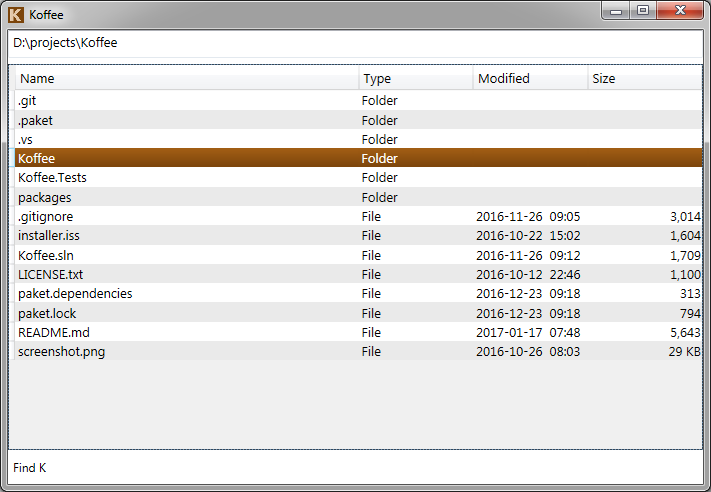
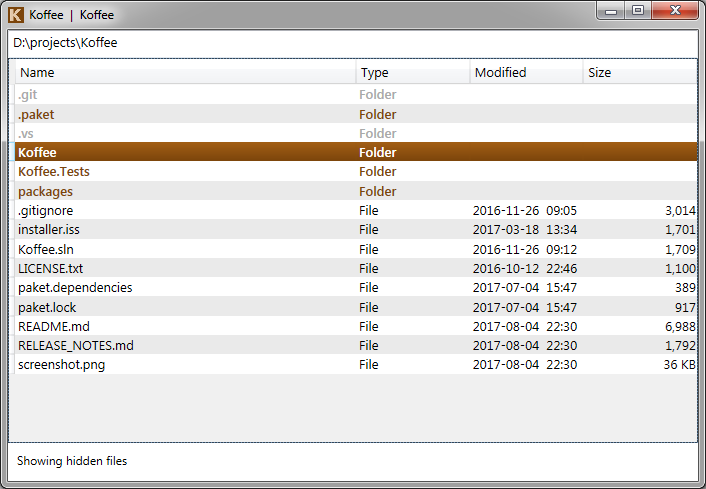
Updates readme, release notes, and screenshot.

diff --git a/README.md b/README.md
@@ -19,31 +19,40 @@ _Capitalized letters indicate that the key is combined with Shift._
 - `j` to move the cursor down
 - `k` to move the cursor up
 - `h` to go up to the parent folder
-- `l` or `enter` to open the selected folder or file
+- `l` or `Enter` to open the selected folder or file
 - `H` to go back in navigation history
 - `L` to go forward in navigation history
 - `tab` switches between the main view and the path box
-- `?` opens the settings window, which displays the hotkeys for all commands. _(This window will allow you to edit the hotkeys and other settings in the future.)_
+- `?` opens the Settings window, which displays the hotkeys for all commands.
 - `Ctrl + w` to exit
 
-#### Jumping to Items in the Current Folder
-- `Ctrl + j` and `Ctrl + k` move the cursor by half-pages at a time.
-- `gg` (press `g` twice) jumps to the first item, and `G` jumps to the last item.
-- Press `f` then any character to jump to the next item beginning with that character. _(Note that this is case sensitive, so `a` is not the same as `A`.)_ For example, pressing `fa` will jump to the first file or folder starting with "a". Then press `;` to continue jumping to more items starting with that same character.
-- Press `/` to start a search. This will move your cursor to a search box at the bottom of the window. Enter any part of a file or folder name and press `enter` to jump to the next item containing the search term in its name. Then press `n` to go to the next match, or `N` to go to the previous match. The search box accepts regular expressions for powerful searching. _(Don't know what regular expression are? That's OK, just know that some characters like `.`, `*`, `+`, `^`, `$`, `(`, `)`, `[`, `]` have special meaning. Put a `\` in front of these characters to search for them literally.)_
+#### Advanced Navigation
+- **Scroll quickly**
+    - `Ctrl + j` and `Ctrl + k` move the cursor by half-pages at a time.
+    - `gg` (press `g` twice) jumps to the first item, and `G` jumps to the last item.
+- **Jump to item**: Press `f` then any character to jump to the next item beginning with that character. _(Note that this is case sensitive, so `a` is not the same as `A`.)_ For example, pressing `fa` will jump to the first file or folder starting with "a". Then press `;` to continue jumping to more items starting with that same character.
+- **Search**: Press `/` to start a search. This will move your cursor to a search box at the bottom of the window. Enter any part of a file or folder name and press `Enter` to jump to the next item containing the search term in its name. Then press `n` to go to the next match, or `N` to go to the previous match. The search box accepts regular expressions for powerful searching. _(Don't know what regular expression are? That's OK, just know that some characters like `.`, `*`, `+`, `^`, `$`, `(`, `)`, `[`, `]` have special meaning. Put a `\` in front of these characters to search for them literally.)_
+- **Bookmarks**
+    - Set a bookmark by pressing `m`. The list of bookmarks already set are shown. Enter any character to set a bookmark to that character. Upper-case letters are distinct from lower-case letters.
+    - Go to a bookmark by pressing `'`. The list of bookmarks are shown. Enter one of the bookmark characters to go to that bookmark.
+    - When viewing bookmarks, press `Delete` then a bookmark character to delete that bookmark.
+- **Sorting**
+    - Press `sn` to sort by name, ascending then descending.
+    - Press `sm` to sort by modified date, descending then ascending.
+    - Press `ss` to sort by size, ascending then descending.
 
 #### File & Folder Manipulation
-- **Create File or Folder**: Press `o` to create a file or `O` to create a folder. Type in the name of the new item and press `enter`.
+- **Create File or Folder**: Press `o` to create a file or `O` to create a folder. Type in the name of the new item and press `Enter`.
 - **Rename**: There are several ways to start renaming the currently selected file or folder.
     - Press `i` to start with the cursor at the beginning of the name
     - Press `a` to start with the cursor at the end of the name, before the extension
     - Press `A` to start with the cursor at the end of the extension
     - Press `c` to start with the name (without extension) selected so that typing will replace the name
     - Press `C` to start with the extension selected so that typing will replace the extension
-    - When you are done editing the name, press `enter`
+    - When you are done editing the name, press `Enter`
 - **Move / Copy**
     1. Press `d` to start a move or `y` to start a copy of the selected file or folder. The item and operation will be displayed at the lower-right corner of the window.
-    2. Navigate to the destination folder and press `p` to move or copy the item there. A copy to the same folder will append "(copy)" to the name. If an item with the same name already exists, you will be prompted to overwrite it.
+    2. Navigate to the destination folder and press `p` to move or copy the item there. A copy to the same folder will append "(copy)" to the name. If an item with the same name already exists, you will be prompted to overwrite it. If you choose to overwrite folders, the contents will be merged (existing files in the destination with the same name will be overwritten, but the others will remain).
 - **Delete**
     - Press `Delete` to send the currently selected item to the Recycle Bin. If the item is too large to fit in the Recycle Bin, a message will be shown instead.
     - Press `Shift + Delete` to delete it permanently. You will be prompted to make sure this is what you want to do; press `y` to proceed with deletion or press any other key to cancel.
@@ -54,17 +63,17 @@ _Capitalized letters indicate that the key is combined with Shift._
 #### Other
 - Open Windows Explorer at your current location with `Ctrl + Shift + e`
 - Open Commandline at your current location with `Ctrl + Shift + c`
-- Toggle between Windows-style and Unix-style path formats with `F9`
+- Open the currently selected file with your text editor (configured in the Settings window) with `Ctrl + Shift + t`
+- Show/hide hidden files and folders with `F9`
 
-There are more commands at your disposal. Check the Settings window ful the full list of commands and their key bindings!
+There are more commands at your disposal. Open the Settings window with `?` for the full list of commands and their key bindings!
 
 ## Planned Features
 - Search sub-folders
-- Option to remember previous location
+- Select multiple items
 - Configurable hotkeys
-- Bookmarks: quickly save and jump to a folder and/or item
-- Themes
 - Batch renames with regular expressions
 - Split view
+- Themes
 - And more...
 

diff --git a/RELEASE_NOTES.md b/RELEASE_NOTES.md
@@ -1,6 +1,21 @@
-## Release Notes
+# Release Notes
 
-#### v0.2.1
+### v0.3.0  Settings and Bookmarks
+- Added ability to set, go to, and delete bookmarked locations
+- Added sort by name, size, or modified ascending/descending
+- Added Open With Text Editor command and setting for text editor path
+- Added settings for startup path, path format, showing hidden files
+- Added color for folders and hidden items
+- Added search highlighting and match count
+- Added date and size comparison for file overwrite prompt
+- Window size and position are now remembered
+- Escape and Exit command now work when the path text box is focused
+- Fixes crash when opening a file fails
+- Fixes showing wrong name in move/copy overwrite prompt
+- Fixes overwriting for move
+- Fixes overwriting readonly and hidden files
+
+### v0.2.1
 - Added Open Commandline
 - Path box now replaces "~" with user's directory
 - Window title now shows the current folder
@@ -10,7 +25,7 @@
 - Fix empty item buffer appearing after executing a command
 - Fix margins of path text box and command panel
 
-#### v0.2.0  File & Folder Manipulation
+### v0.2.0  File & Folder Manipulation
 - Create, delete, rename, move, and copy files and folders
 - Undo/redo of file and folder actions
 - Back/forward navigation
@@ -18,7 +33,7 @@
 - Support for opening a path passed in as an argument to the executable
 - Added icon and simple thematic elements
 
-#### v0.1.0  Initial Release
+### v0.1.0  Initial Release
 - Local file system navigation with VIM hotkeys
 - Find by first character and search with regular expression in current folder
 - Toggle between Windows and Unix-style path formats
